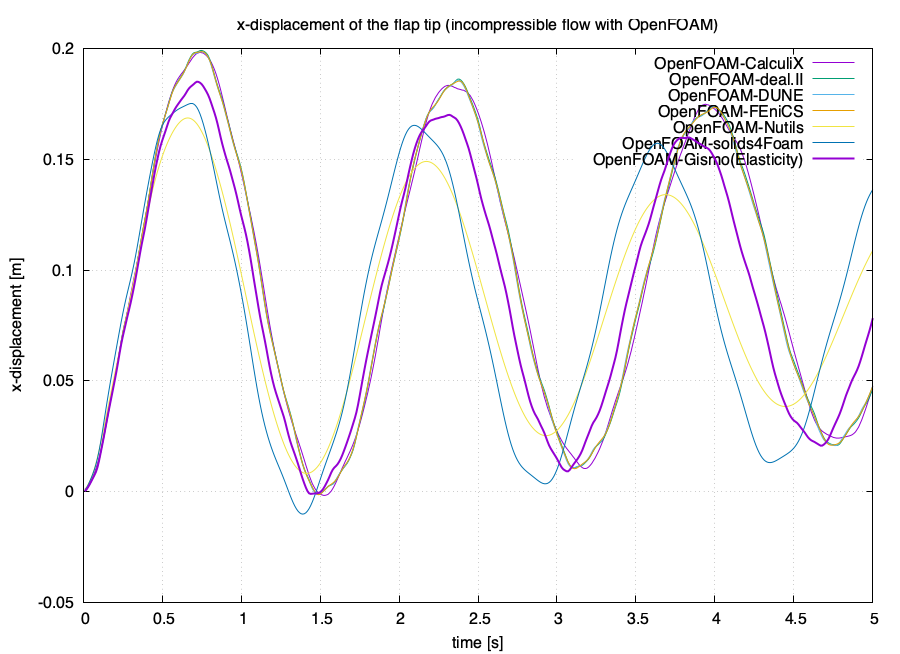
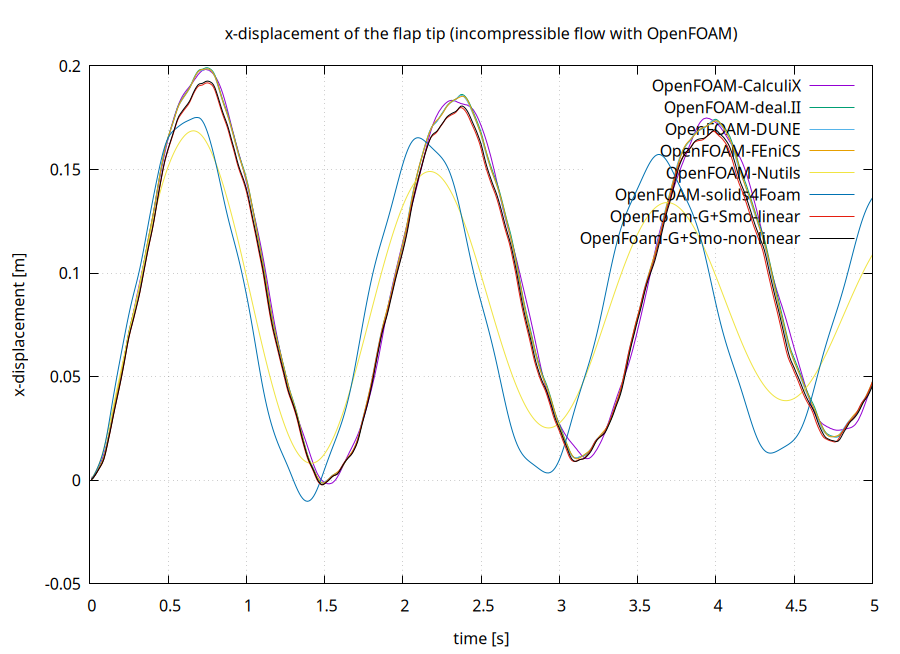
Fixed the comparison with other solvers

diff --git a/perpendicular-flap-stress/README.md b/perpendicular-flap-stress/README.md
@@ -55,6 +55,12 @@ As we defined a watchpoint on the 'Solid' participant at the flap tip (see `prec
 
 ![Flap watchpoint](images/tutorials-perpendicular-flap-stress-displacement-watchpoint.png)
 
+The G+Smo solver includes both linear and nonlinear versions of the Newmark time integrator for time-dependent structural problems.
+
+The linear version iterates using a constant stiffness matrix $K$.
+The nonlinear version iterates using an updated Jacobian matrix $J$ to account for material or geometric nonlinearity.
+
+By default, the solver runs in linear mode. To switch to nonlinear mode, simply add `--nonlinear` to `run.sh`.
 
 {% disclaimer %}
 This offering is not approved or endorsed by OpenCFD Limited, producer and distributor of the OpenFOAM software via www.openfoam.com, and owner of the OPENFOAM®  and OpenCFD®  trade marks.
